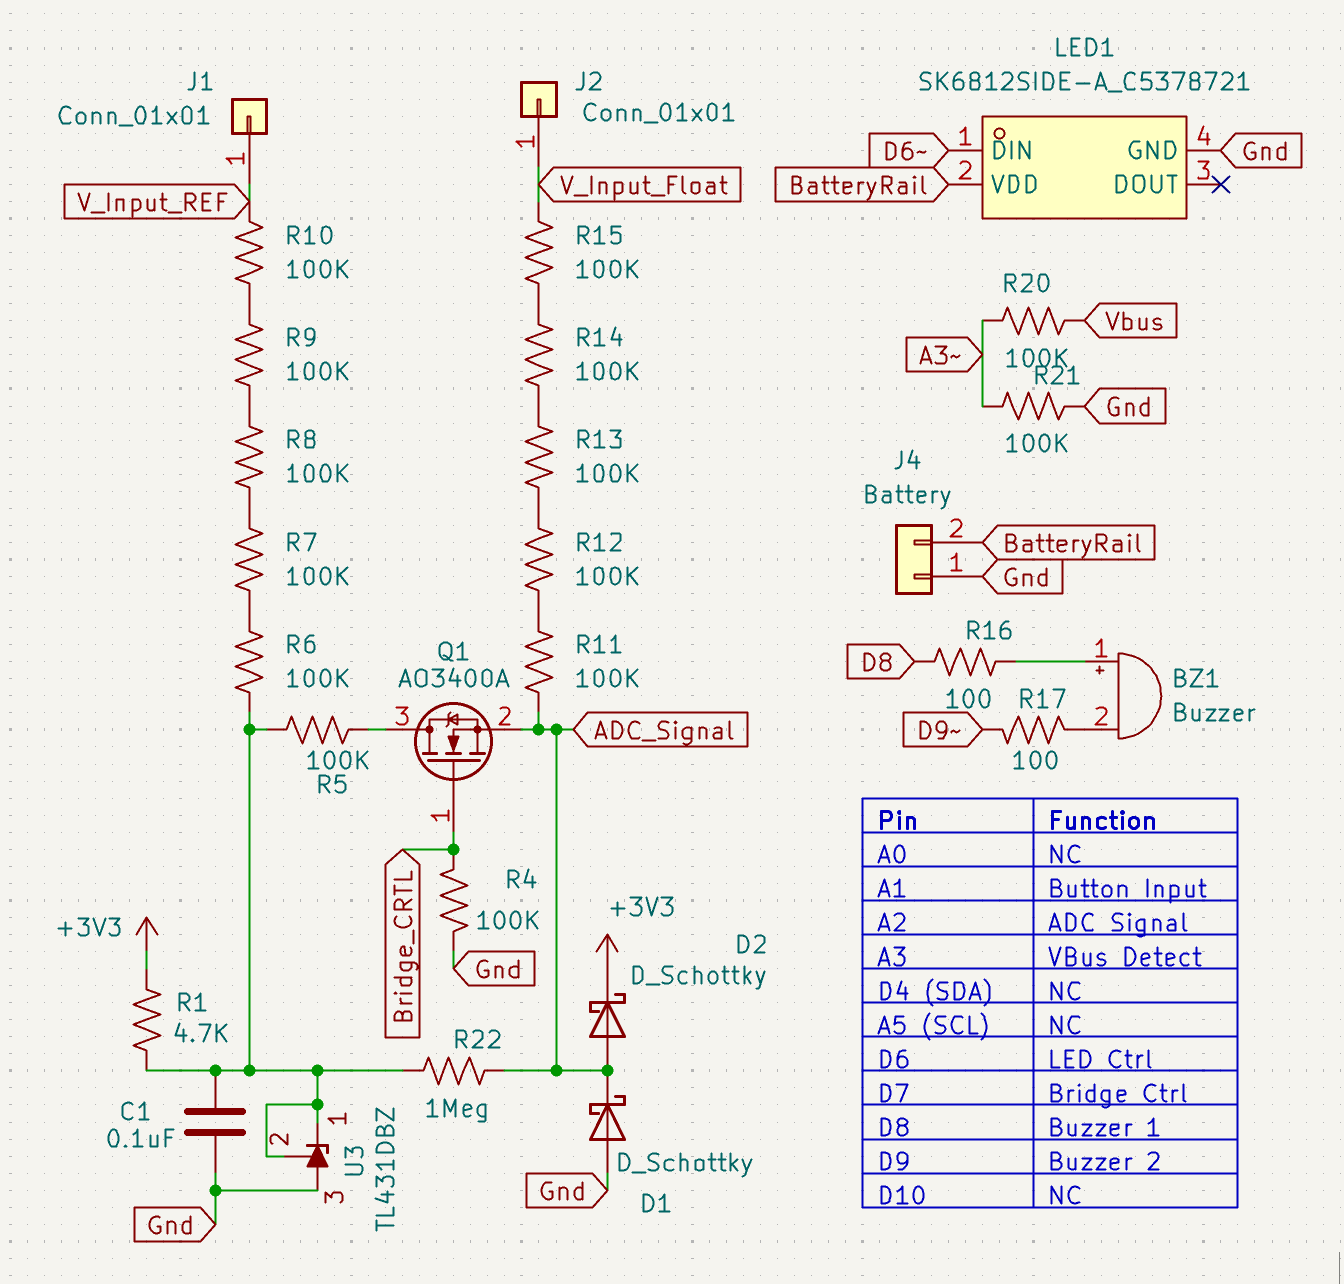
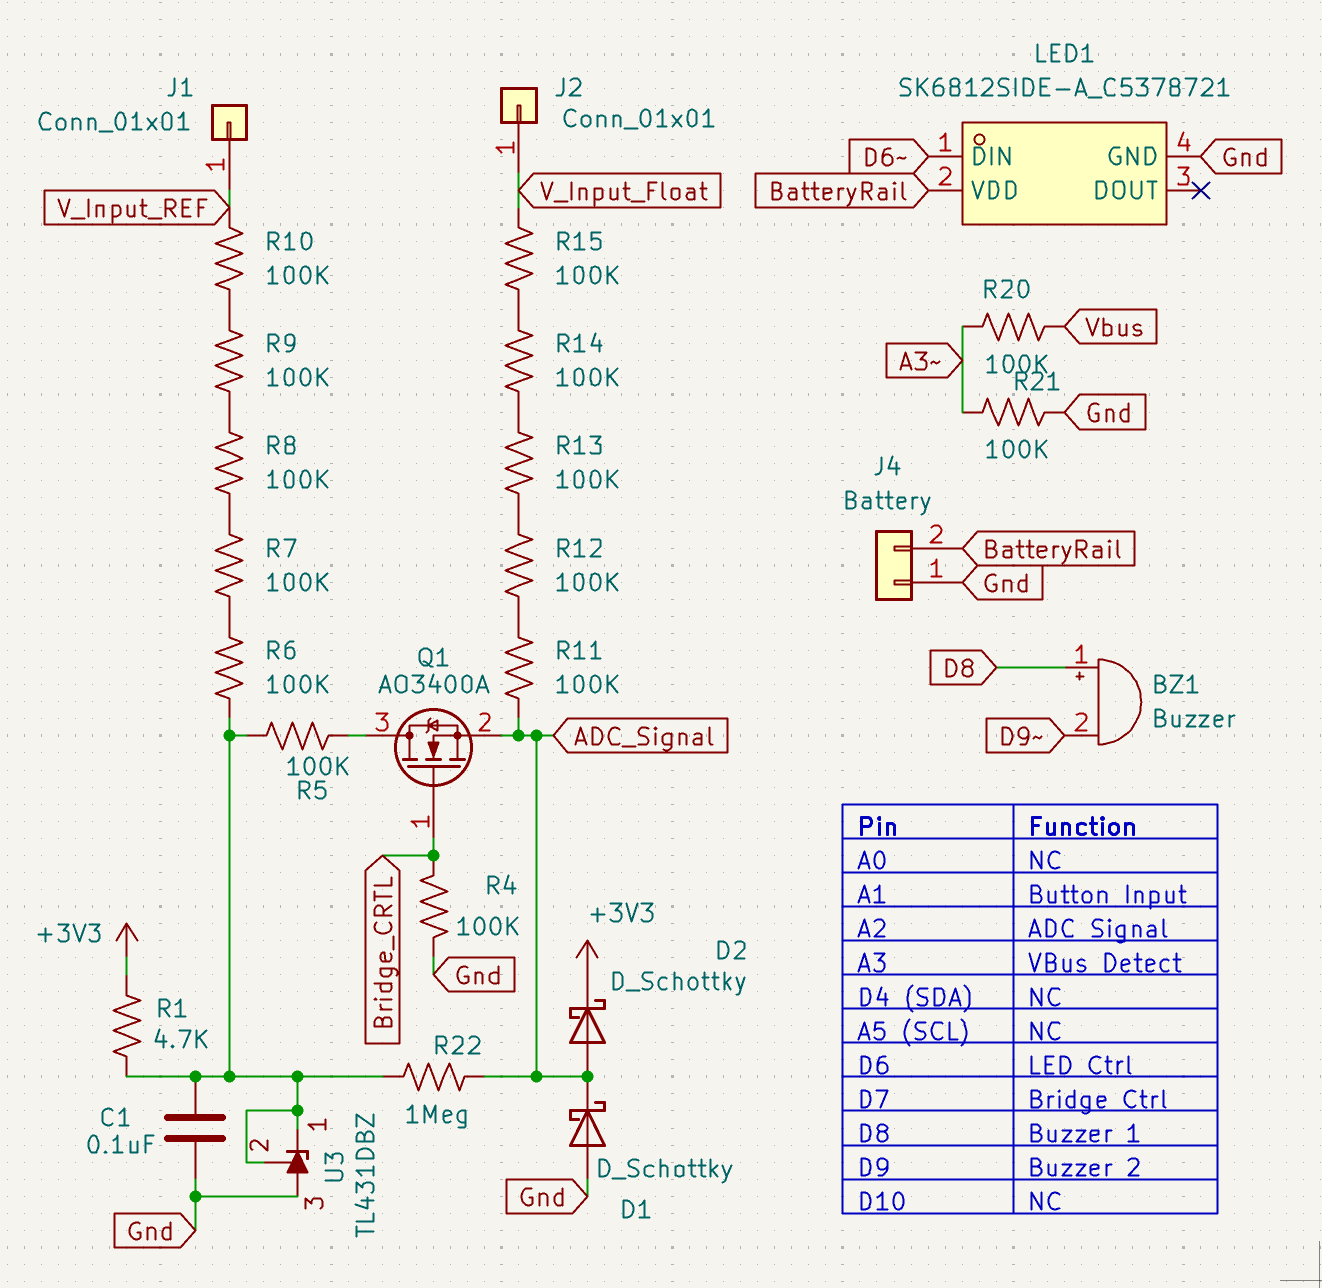
Landing page: V3 housing photos, the V3 schematic, and the kid shot
Replaces the blue-prototype photography on the product sections with shots of
the current green housing, and shows the board schematic as part of what you
get rather than hiding it behind the repo link.

- hero -> hero-v3.jpg: two meters, green "connected" and orange "voltage"
- #product leads with the unit itself; "a closer look" shows it mounted
- new "Open by design" subsection carries the V3 schematic, captioned back to
  the 1.1 MOhm the probes see (2 x 500k ladders + the 100k sense resistor)
- kid photo at the end of #payoff, "Simple enough for even little kids."
- hero.jpg and green-closed.jpg are now unused: both are the old blue housing

The uploads were 9-11 MB straight off a phone, against 150-550 KB for the rest
of the site, so they are downscaled to 1400-1800 px / 250-530 KB. Originals are
kept in img/_originals/ and gitignored so the repo does not carry them.

Claude-Session: https://claude.ai/code/session_01JAoKXEDBBrJnpeHiQ2MsNc

Changed region(s): [[0.031, 0.0312, 0.9924, 0.9969], [0.6203, 0.3427, 0.9304, 0.9657], [0.9924, 0.9657, 1.0, 1.0]]

diff --git a/index.html b/index.html
@@ -93,6 +93,7 @@
   .card .big{font-size:1.9rem; font-weight:800; color:var(--accent); line-height:1.1;}
   .card .lbl{font-size:.85rem; color:var(--muted); text-transform:uppercase; letter-spacing:.05em;}
 
+  figure.halfwide{max-width:430px; margin-left:auto; margin-right:auto;}
   .quote{font-size:1.4rem; line-height:1.5; font-weight:600; border-left:5px solid var(--accent);
     background:#fff; padding:18px 26px; border-radius:0 10px 10px 0; margin:10px 0 22px;
     box-shadow:0 4px 18px rgba(20,34,49,.06);}
@@ -171,7 +172,7 @@
       <a href="https://www.youtube.com/watch?v=wVhMOBtXWjg" class="btn ghost" target="_blank" rel="noopener">▶ Watch the demo</a>
     </div>
     <div class="hero-img">
-      <img src="img/hero.jpg" alt="Two multimeters on a workbench: the left reads ~0 V with a green 'connected' detector lit; the right probes a live 120 VAC outlet with a red detector.">
+      <img src="img/hero-v3.jpg" alt="Two multimeters side by side on a countertop, each with a green Blinky Hawk attached. The left reads 0.0000 V with its detector lit green because its probes are touching; the right reads 119.8 V AC at a wall outlet with its detector lit orange.">
     </div>
   </div>
 </header>
@@ -230,10 +231,10 @@
       you work changes.</p>
 
     <div class="grid2 top">
-      <figure>
-        <img src="img/green-closed.jpg" loading="lazy" alt="A Keysight U1272A multimeter reading 0.0051 V with Blinky Hawk clipped onto its input jacks, its LED lit green because the probe tips are touching.">
-        <figcaption>0.0051&nbsp;V on the meter &mdash; and a green light confirming the probes
-          really are connected.</figcaption>
+      <figure class="halfwide">
+        <img src="img/product-alt-2.jpg" loading="lazy" alt="A Blinky Hawk unit lying on a countertop showing its green housing with the BLINKY HAWK name moulded into the side, its stacking banana plugs, the toggle switch and the USB-C charging port. Behind it a Fluke 87V reads 120.2 V AC with a second unit attached, lit orange.">
+        <figcaption>The unit itself &mdash; stacking banana plugs, the three-position toggle, and
+          USB-C for charging. Behind it, a second one calling out 120&nbsp;V.</figcaption>
       </figure>
       <div>
         <ul class="clean">
@@ -250,6 +251,24 @@
         </ul>
       </div>
     </div>
+
+    <h3>A closer look</h3>
+    <figure>
+      <img src="img/product-alt-1.jpg" loading="lazy" alt="Close view of a Blinky Hawk mounted on the side of a Keysight multimeter, the BLINKY HAWK name moulded into its green housing, with a second unit on a Fluke meter behind.">
+      <figcaption>It rides on the side of the meter, out of the way of the display and the
+        dial &mdash; and the same unit moves to whichever meter you are using.</figcaption>
+    </figure>
+
+    <h3>Open by design</h3>
+    <p>This is the whole circuit &mdash; not a redacted block diagram. The schematic and the
+      firmware source are published, so you can see exactly what is across your probes, and change
+      it if you want to.</p>
+    <figure class="bordered">
+      <img src="img/BlinkyHawk_PCBv3_Schematic.png" loading="lazy" alt="Blinky Hawk V3 schematic: two 500 kilohm resistor ladders from the probe inputs meeting at a 100 kilohm sense resistor and an AO3400A bridge MOSFET, a TL431 reference, Schottky clamp diodes, an SK6812 LED, a buzzer across D8 and D9, and a pin-function table.">
+      <figcaption>The V3 board in full. The two 500&nbsp;kΩ ladders and the 100&nbsp;kΩ sense
+        resistor are the 1.1&nbsp;MΩ your probes see; Q1 is the bridge MOSFET the detection
+        depends on.</figcaption>
+    </figure>
 
     <h3>At a glance</h3>
     <div class="tablewrap">
@@ -325,6 +344,10 @@
       <strong>&gt;4 GΩ on a megohmmeter</strong> (galvanically wide open) yet still presented a low-impedance path and
       read “Closed.” So near reactive parts, treat a “Closed” as <em>“low-impedance path,”</em> not
       <em>“guaranteed DC connection.”</em></p>
+    <figure class="halfwide">
+      <img src="img/kid-using-blinkyhawk.jpg" loading="lazy" alt="A small child kneeling on a rug, holding both multimeter probes onto a battery holder. The attached Blinky Hawk is lit orange to show voltage is present.">
+      <figcaption>Simple enough for even little kids.</figcaption>
+    </figure>
   </div>
 </section>
 <!-- TECHNICAL POINTER -->
